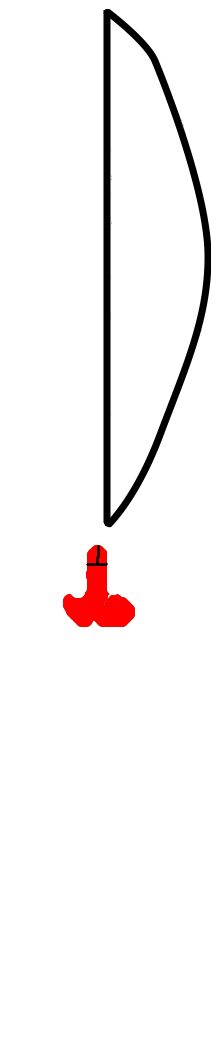
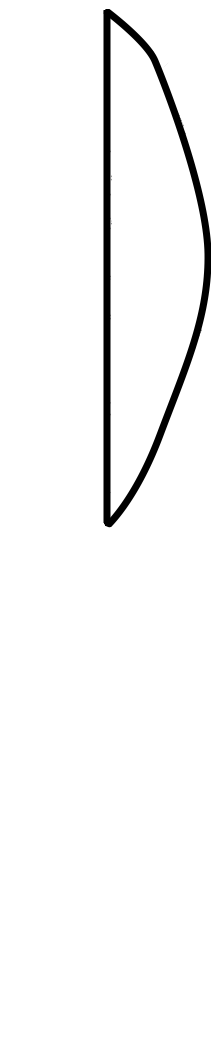
Rotation and side of sail is now correct #story[1354]

Changed region(s): [[0.2778, 0.5201, 0.6389, 0.6119]]

diff --git a/visualiser/src/main/java/seng302/Controllers/RaceController.java b/visualiser/src/main/java/seng302/Controllers/RaceController.java
@@ -17,8 +17,6 @@ import javafx.scene.chart.NumberAxis;
 import javafx.scene.chart.XYChart;
 import javafx.scene.control.*;
 import javafx.scene.control.cell.PropertyValueFactory;
-import javafx.scene.image.Image;
-import javafx.scene.image.ImageView;
 import javafx.scene.layout.AnchorPane;
 import javafx.scene.layout.BorderPane;
 import javafx.scene.layout.Pane;
@@ -26,7 +24,6 @@ import javafx.scene.paint.Color;
 import javafx.scene.shape.*;
 import javafx.scene.text.Font;
 import javafx.scene.text.Text;
-import javafx.scene.transform.Rotate;
 import javafx.stage.Stage;
 import seng302.RaceObjects.*;
 import seng302.Rounding;
@@ -38,7 +35,6 @@ import java.io.IOException;
 import java.util.ArrayList;
 import java.util.Arrays;
 import java.util.List;
-import java.util.Random;
 import java.util.concurrent.TimeUnit;
 
 import static java.lang.Math.*;
@@ -317,7 +313,7 @@ public class RaceController implements IRaceController {
                 if (showName) {
                     name = race.getBoats().get(i).getShortName();
                 }
-                //Position of boat, wake and annotations.
+                //  Position of boat, wake and annotations.
                 boats.get(i).getStack().setLayoutX(Coordinate.getRelativeX(race.getBoats().get(i).getX()));
                 boats.get(i).getStack().setLayoutY(Coordinate.getRelativeY(race.getBoats().get(i).getY()));
 
@@ -327,12 +323,12 @@ public class RaceController implements IRaceController {
                 boatImage.setScaleY(boatImage.getScaleY()*0.0666);
                 boatImage.setRotate(race.getBoats().get(i).getHeading());
 
-                // Temporary hard coding to differentiate between the boat in user control
+                //  Temporary hard coding to differentiate between the boat in user control
                 if (race.getBoats().get(i).getSourceId() == race.getClientSourceId()) {
                     updateNodeScale(boats.get(i).getStack().getChildren().get(BoatSprite.CONTROL_CIRCLE));
                 }
 
-                //Boats wake
+                //  Boats wake
                 boats.get(i).getStack().getChildren().set(BoatSprite.WAKE, newWake(boatSpeed));
                 updateNodeScale(boats.get(i).getStack().getChildren().get(BoatSprite.WAKE));
                 boats.get(i).getStack().getChildren().get(BoatSprite.WAKE).setRotate(race.getBoats().get(i).getHeading());
@@ -341,97 +337,27 @@ public class RaceController implements IRaceController {
                 boats.get(i).getStack().getChildren().get(BoatSprite.WAKE).setLayoutY(((9 + boatSpeed)
                         * (1 / (1 + Coordinate.getZoom()))) * cos(-Math.toRadians(race.getBoats().get(i).getHeading())));
 
-                //Boat annotations (name and speed)
+                //  Boat annotations (name and speed)
                 boats.get(i).getStack().getChildren().set(BoatSprite.TEXT, new Text(name + " " + speed));
                 boats.get(i).getStack().getChildren().get(BoatSprite.TEXT).setTranslateX(10);
                 boats.get(i).getStack().getChildren().get(BoatSprite.TEXT).setTranslateY(0);
 
-                //Sails
-                final double sailScale = 0.04;
-                ImageView sail = (ImageView) boats.get(i).getStack().getChildren().get(BoatSprite.SAIL);
-                sail.setScaleX(0.1*getNodeScale());
+                //  Sails
+                Node sail = boats.get(i).getStack().getChildren().get(BoatSprite.SAIL);
+
                 sail.setScaleY(0.1*getNodeScale());
 
+                double boatHeading = race.getBoats().get(i).getHeading();
+                double relativeHeading = (360 + boatHeading - race.getWindHeading()) % 360;
+                double value = boatHeading - relativeHeading / 2;
 
-                double relativeHeading = (360 + race.getBoats().get(i).getHeading() - race.getWindHeading()) % 360;
-
-                double value = 180 + relativeHeading / 2;
-                sail.setRotate(value);
-
-                if (!(relativeHeading >= 0 && relativeHeading < 180)) {
-                    // flip
-
-//                    sail.setTranslateZ(sail.getBoundsInLocal().getWidth() / 2.0);
-                    double rotate = sail.getRotate();
-                    sail.setRotate(90);
-                    rotate = rotate - sail.getRotate();
-                    sail.setScaleY(-0.1*getNodeScale());
-                    sail.setRotate(sail.getRotate() - rotate + 180);
-//                    sail.setRotate(value);
-
+                if (relativeHeading >= 0 && relativeHeading < 180) {
+                    sail.setScaleX(-0.1*getNodeScale());
+                    sail.setRotate(value + 180);
+                } else {
+                    sail.setScaleX(0.1*getNodeScale());
+                    sail.setRotate(value);
                 }
-
-//                sail.getTransforms().add(new Rotate(3, 0, 0));
-//                sail.setScaleY(1);
-//                sail.setScaleX(1);
-//                sail.setTranslateY(-sail.getImage().getHeight() * (0.5 - sailScale * getNodeScale()/2) - 25);
-//                sail.setTranslateX(-sail.getImage().getWidth() * (0.5 - sailScale * getNodeScale()/2) - 25);
-//                sail.setScaleY(sail.getScaleY()*sailScale);
-//                sail.setScaleX(sail.getScaleX()*sailScale);
-//                double headingDif = (360 + boats.get(i).getBoat().getHeading() - race.getWindHeading()) % 360;
-//                if (race.getBoats().get(i).isSailsOut()){
-//                    boats.get(i).sailOut();
-//                    sail.getTransforms().clear();
-//                    if (headingDif < 11 || headingDif > 349) {
-//                        // in irons, make the sail go wavy
-//                        sail.getTransforms().add(new Rotate(race.getWindHeading(), 0, 0));
-//                    } else if (headingDif > 10 && headingDif < 45) {
-//                        // close hauled, set at small angle to wind on right of boat
-//                        sail.getTransforms().add(new Rotate(race.getWindHeading() + 18, 0, 0));
-//                    } else if (headingDif > 44 && headingDif < 79) {
-//                        // close reach, slightly larger angle on right of boat
-//                        sail.getTransforms().add(new Rotate(race.getWindHeading() + 36, 0, 0));
-//                    } else if (headingDif > 78 && headingDif < 123) {
-//                        // beam reach, bigger angle on right of boat
-//                        sail.getTransforms().add(new Rotate(race.getWindHeading() + 54, 0, 0));
-//                    } else if (headingDif > 122 && headingDif < 157) {
-//                        // broad reach, second biggest angle, on right of boat
-//                        sail.getTransforms().add(new Rotate(race.getWindHeading() + 72, 0, 0));
-//                    } else if (headingDif > 156 && headingDif < 181) {
-//                        //running, sail on right, biggest angle
-//                        sail.getTransforms().add(new Rotate(race.getWindHeading() + 90, 0, 0));
-//                    } else if (headingDif > 180 && headingDif < 215) {
-//                        //running, sail on left
-//                        sail.getTransforms().add(new Rotate(race.getWindHeading() - 90, 0, 0));
-//                    } else if (headingDif > 214 && headingDif < 249) {
-//                        // broad reach, left
-//                        sail.getTransforms().add(new Rotate(race.getWindHeading() - 72, 0, 0));
-//                    } else if (headingDif > 248 && headingDif < 283) {
-//                        // beam reach right
-//                        sail.getTransforms().add(new Rotate(race.getWindHeading() - 54, 0, 0));
-//                    } else if (headingDif > 282 && headingDif < 317) {
-//                        // close reach right
-//                        sail.getTransforms().add(new Rotate(race.getWindHeading() - 36, 0, 0));
-//                    } else if (headingDif > 316 && headingDif < 351) {
-//                        // close hauled right
-//                        sail.getTransforms().add(new Rotate(race.getWindHeading() - 18, 0, 0));
-//                    }
-//
-////                    if (headingDif < 180 ) {
-////
-////                        sail.getTransforms().add(new Rotate(race.getWindHeading() + 30, 0, 0));
-////                    }
-////                    else {
-////                        sail.getTransforms().add(new Rotate(race.getWindHeading() - 30, 0, 0));
-////                    }
-//                } else {
-//                    boats.get(i).sailIn();
-//                    sail.getTransforms().clear();
-//                    sail.getTransforms().add(new Rotate(race.getWindHeading(), 0,0));
-//
-//                }
-//                double sailLength = 720d / 45d;
-//                sail.setLayoutY((1/(1 + Coordinate.getZoom())) * (sailLength)/2 - SAIL_OFFSET);
             }
         }
     }
